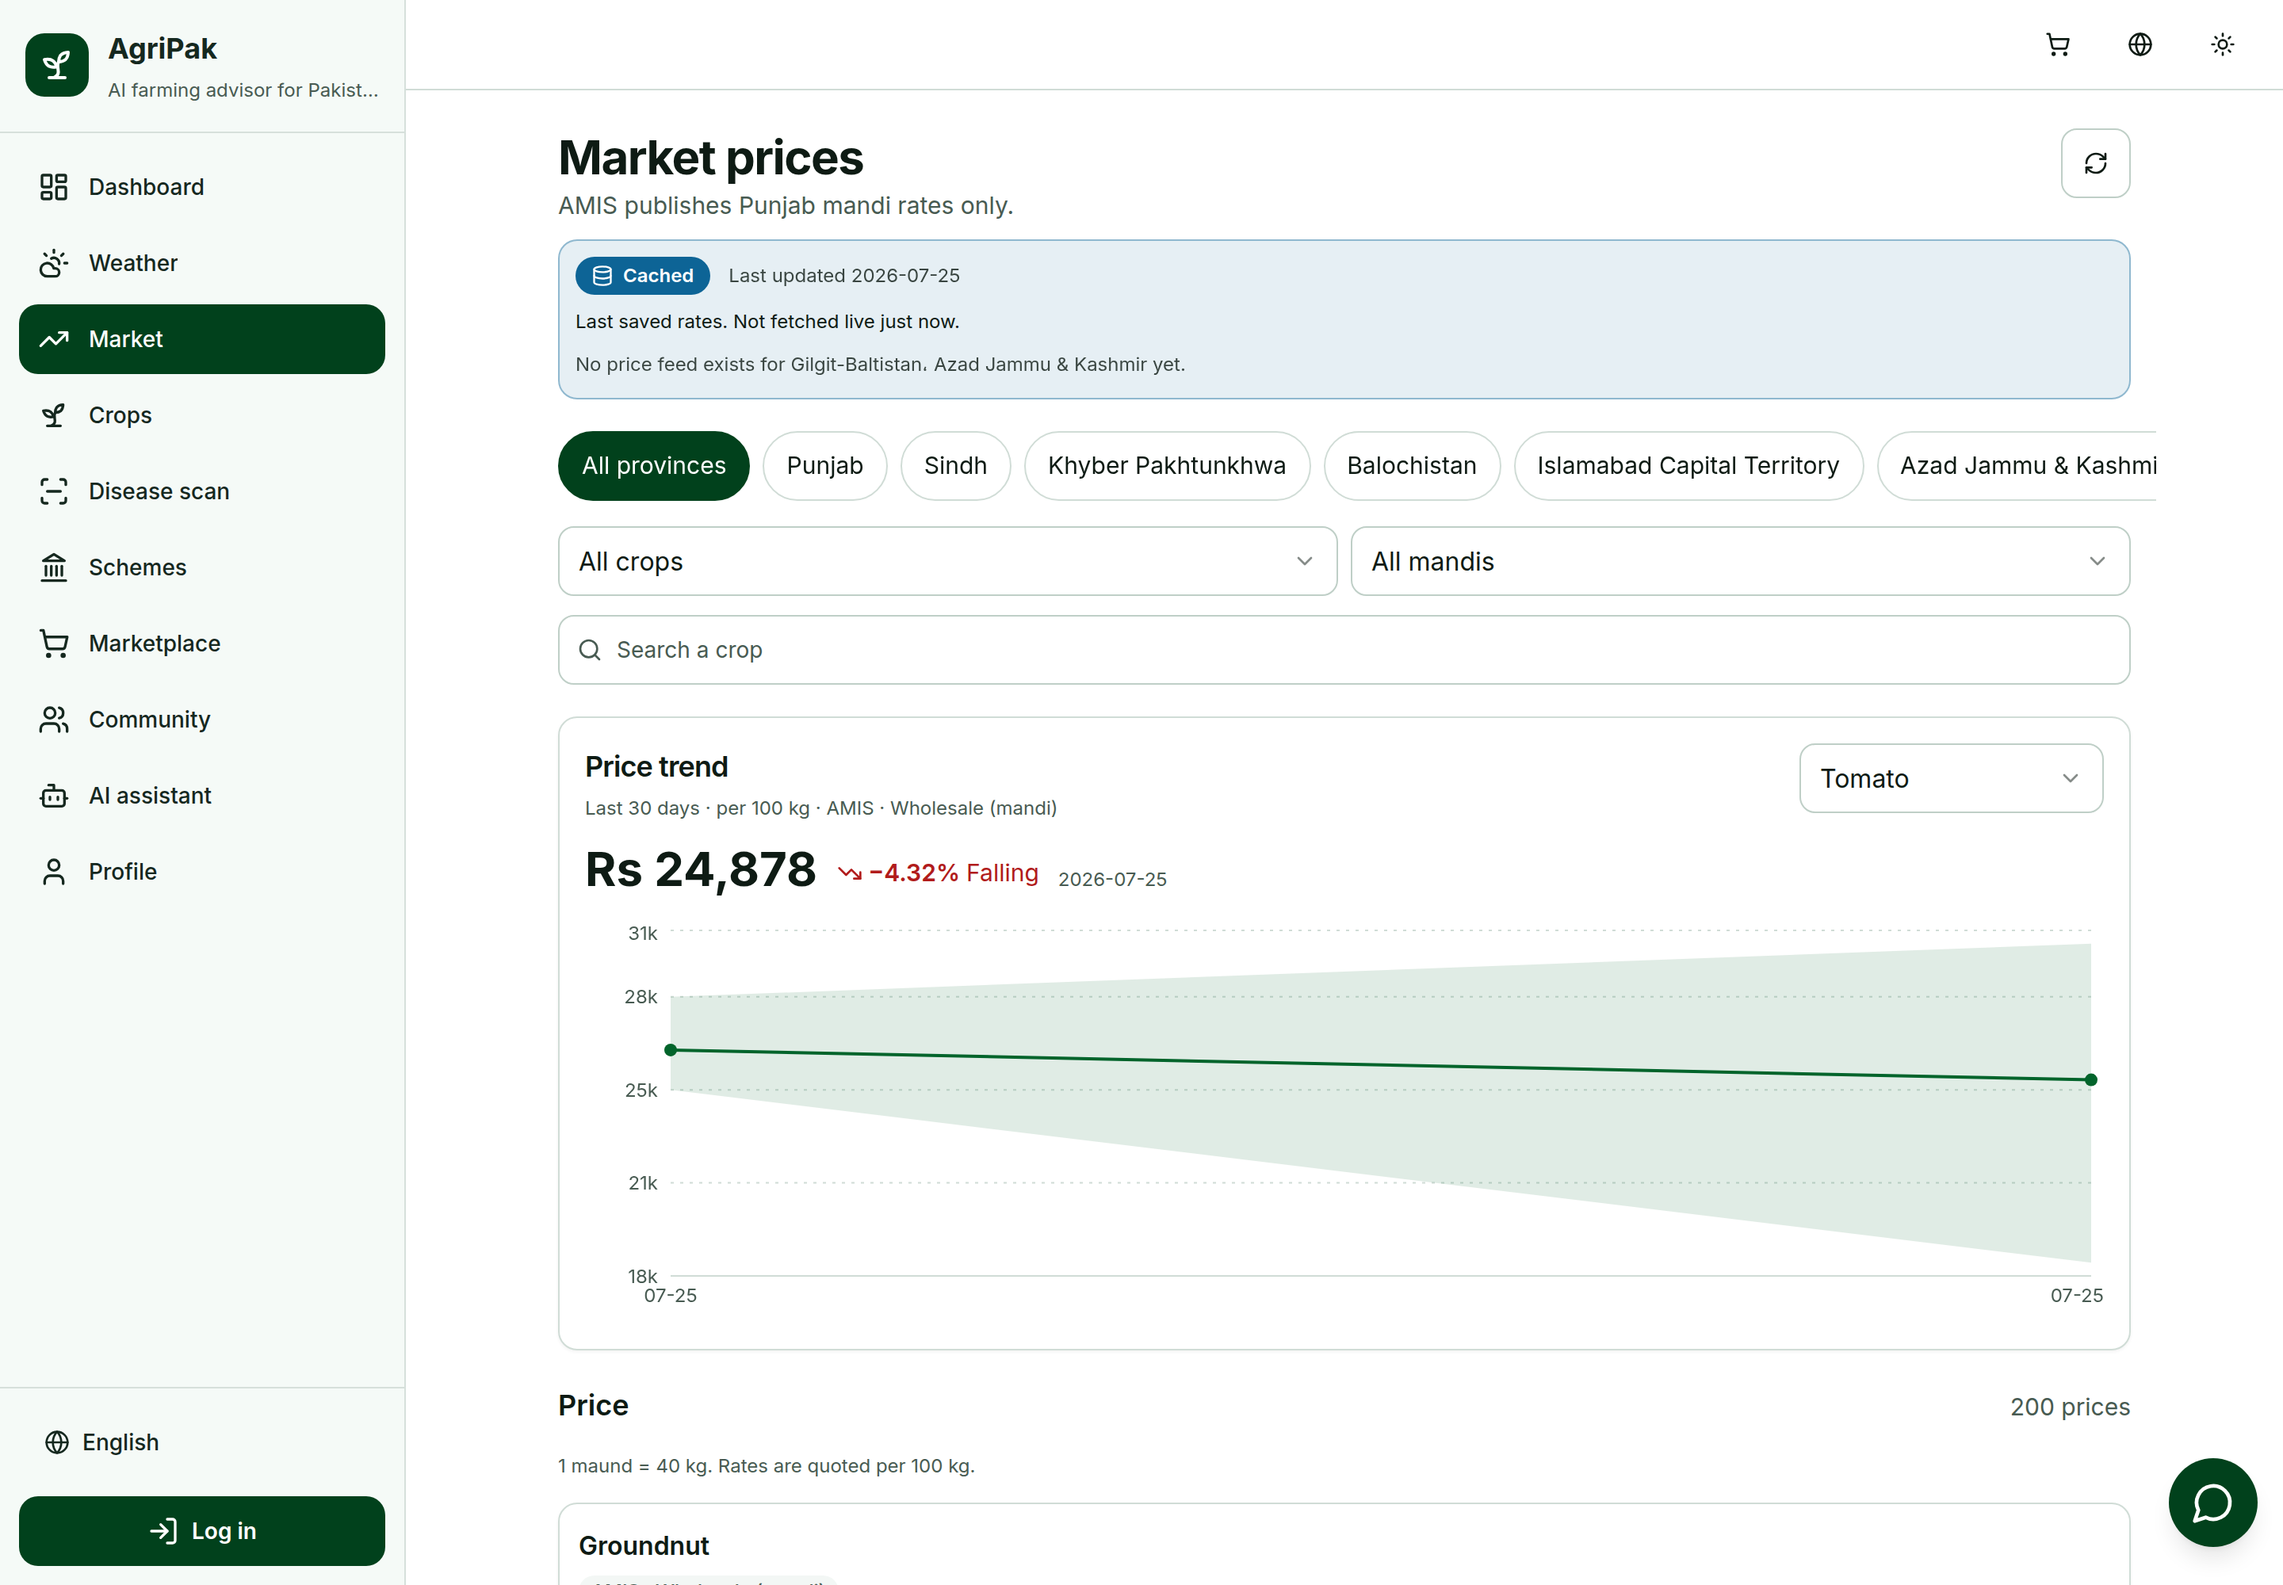
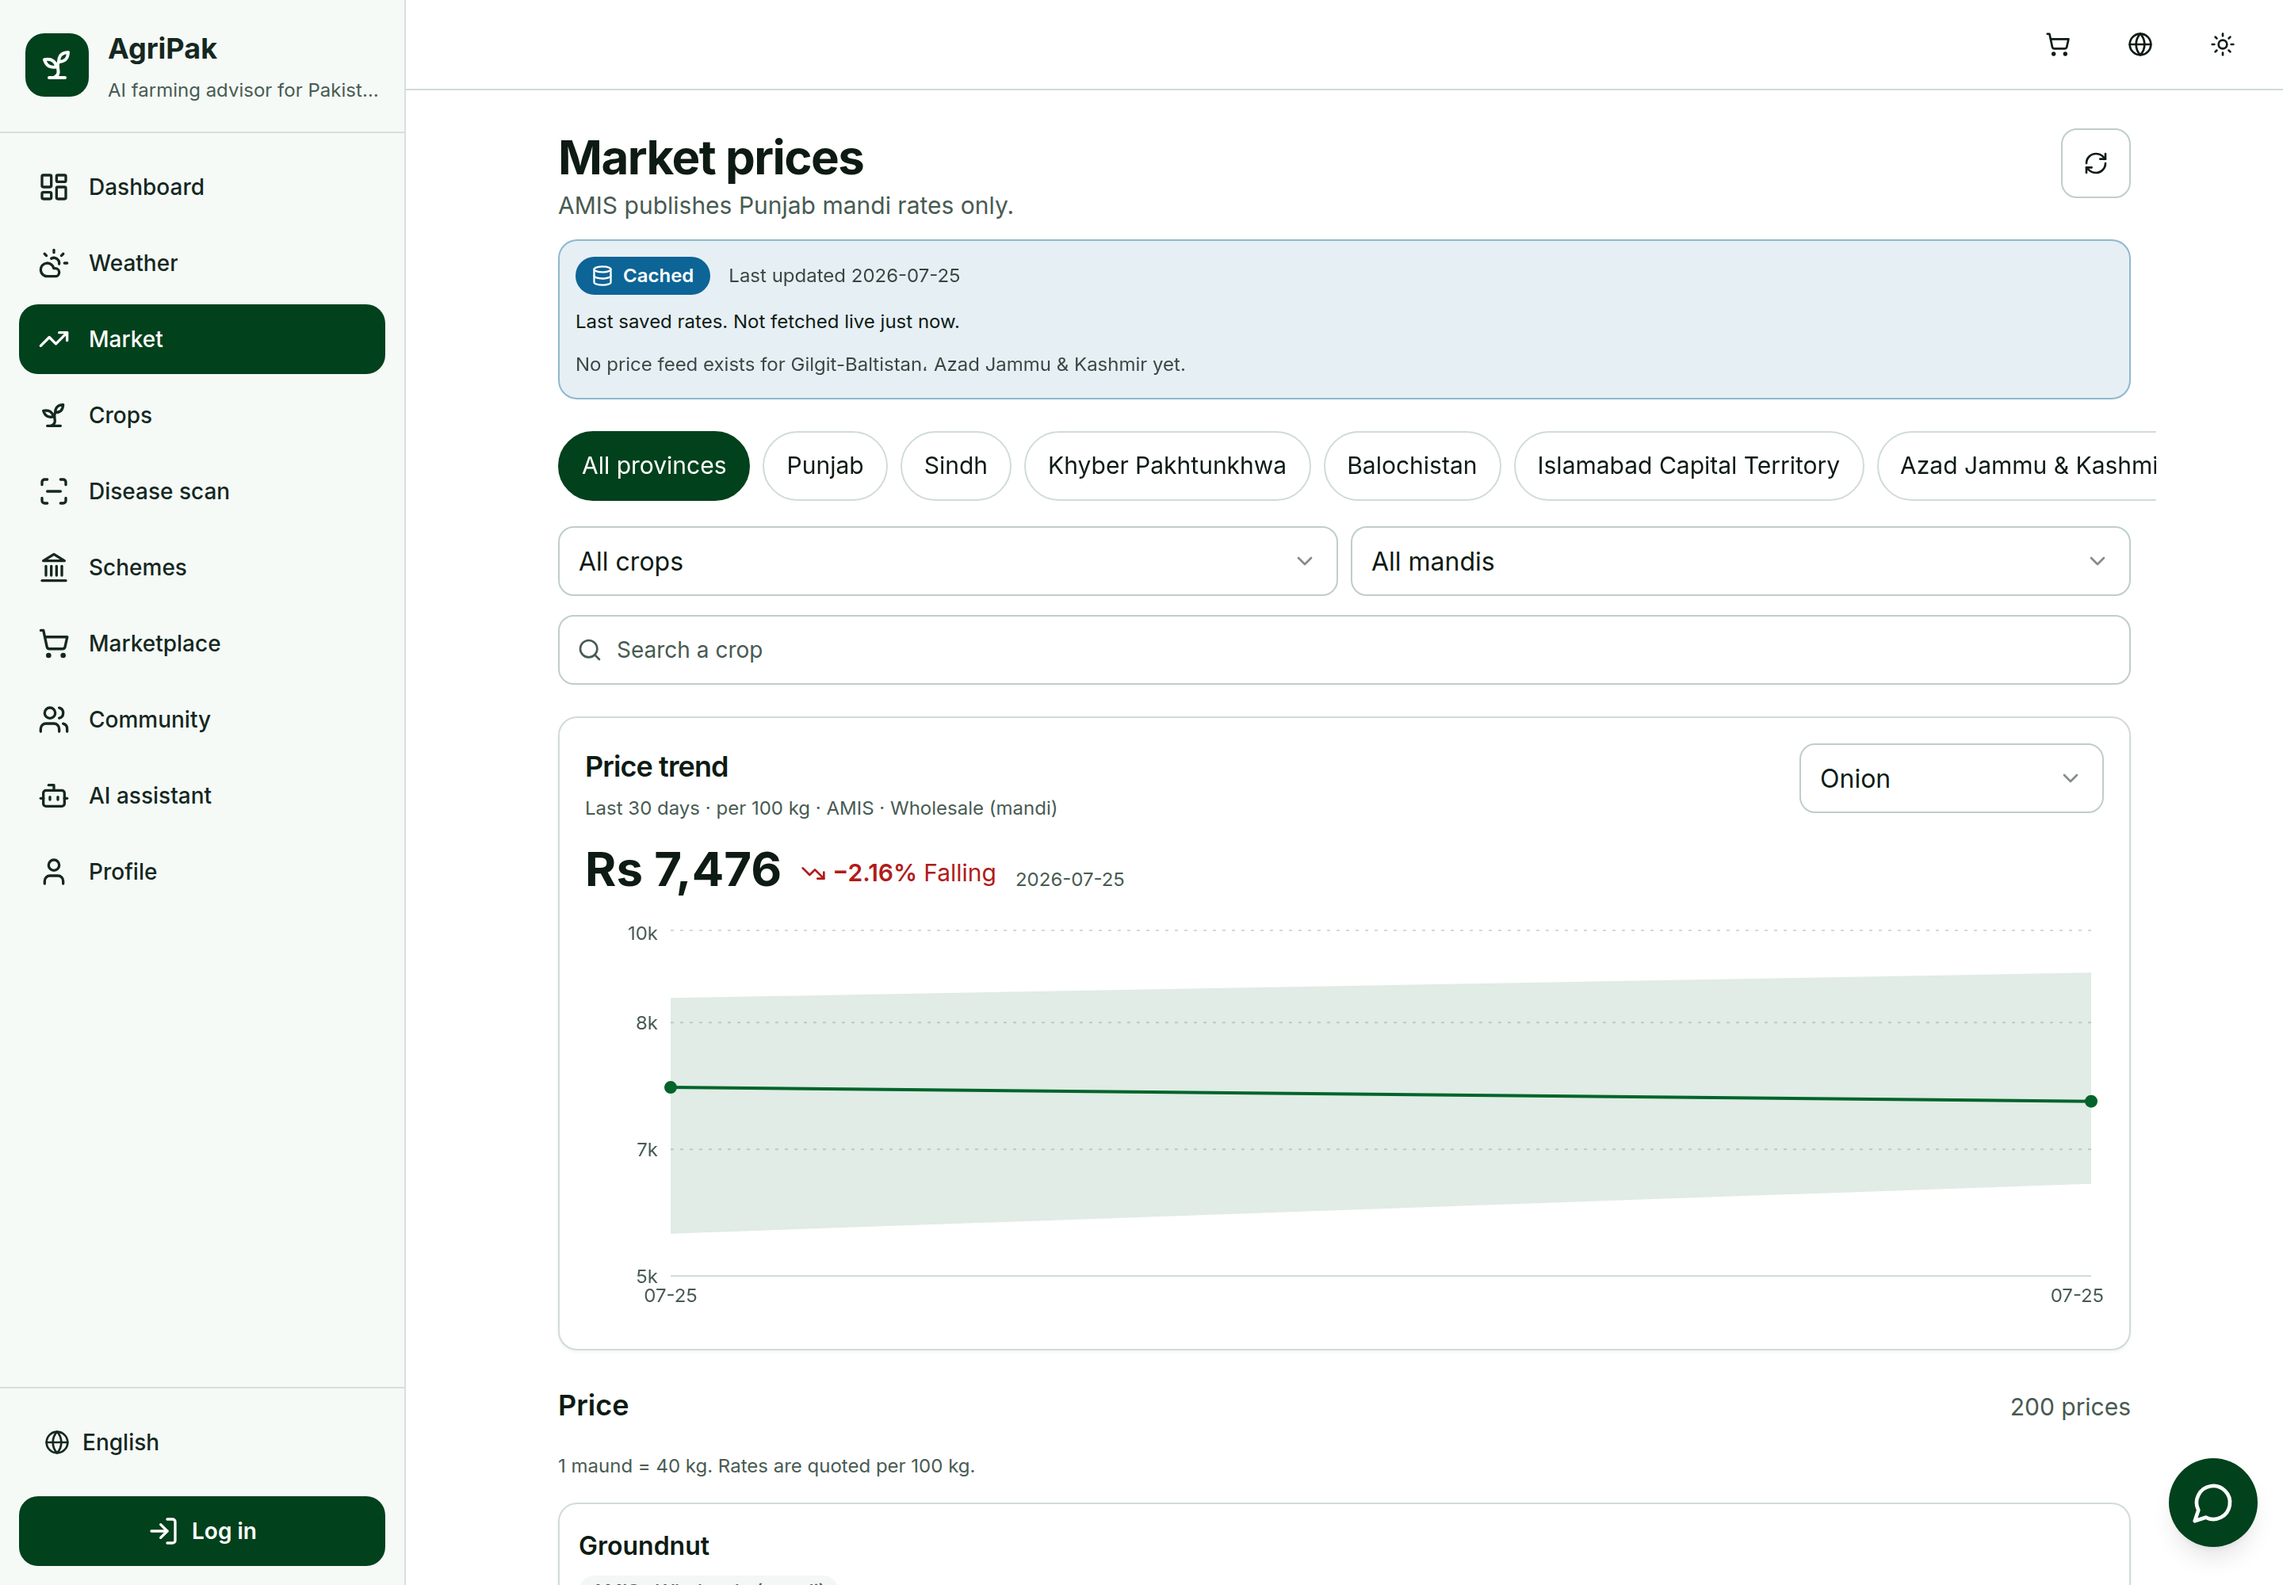
Market: coverage note now reflects both providers
Read 'AMIS publishes Punjab mandi rates only', which stopped being true once the
PBS retail feed was added and undersold the app's national coverage.

diff --git a/lib/data/translations/ur.ts b/lib/data/translations/ur.ts
@@ -321,7 +321,7 @@ export const ur: TranslationSchema = {
     modalPrice: "عام نرخ",
     range: "حد",
     pricesShown: "{count} نرخ",
-    coverageNote: "AMIS صرف پنجاب کی منڈیوں کے نرخ شائع کرتا ہے۔",
+    coverageNote: "پنجاب کے لیے تھوک منڈی نرخ، اور ملک بھر کے 17 شہروں کے پرچون نرخ۔",
     clearFilters: "فلٹر ہٹائیں",
     filters: "فلٹر",
     searchCrop: "جنس تلاش کریں",

diff --git a/lib/data/translations/ps.ts b/lib/data/translations/ps.ts
@@ -321,7 +321,7 @@ export const ps: TranslationSchema = {
     modalPrice: "عام بیه",
     range: "حد",
     pricesShown: "{count} بیې",
-    coverageNote: "AMIS يوازې د پنجاب د منډیو بیې خپروي.",
+    coverageNote: "د پنجاب لپاره د منډۍ ټوک بیې، او په ټول هېواد کې د ۱۷ ښارونو پرچون بیې.",
     clearFilters: "فلټرونه پاک کړئ",
     filters: "فلټر",
     searchCrop: "توکی ولټوئ",

diff --git a/lib/data/translations/pa.ts b/lib/data/translations/pa.ts
@@ -324,7 +324,7 @@ export const pa: TranslationSchema = {
     modalPrice: "عام بھاء",
     range: "حد",
     pricesShown: "{count} بھاء",
-    coverageNote: "AMIS صرف پنجاب دیاں منڈیاں دے بھاء چھاپدا اے۔",
+    coverageNote: "پنجاب لئی تھوک منڈی بھاء، تے ملک بھر دے 17 شہراں دے پرچون بھاء۔",
     clearFilters: "فلٹر ہٹاؤ",
     filters: "فلٹر",
     searchCrop: "جنس لبھو",

diff --git a/lib/data/translations/sd.ts b/lib/data/translations/sd.ts
@@ -321,7 +321,7 @@ export const sd: TranslationSchema = {
     modalPrice: "عام اگهه",
     range: "حد",
     pricesShown: "{count} اگهه",
-    coverageNote: "AMIS رڳو پنجاب جي منڊين جا اگهه شايع ڪري ٿو.",
+    coverageNote: "پنجاب لاءِ هول سيل منڊي اگهه، ۽ ملڪ جي 17 شهرن جا پرچون اگهه.",
     clearFilters: "فلٽر هٽايو",
     filters: "فلٽر",
     searchCrop: "جنس ڳوليو",

diff --git a/lib/data/translations/en.ts b/lib/data/translations/en.ts
@@ -335,7 +335,7 @@ export const en = {
     modalPrice: "Common rate",
     range: "Range",
     pricesShown: "{count} prices",
-    coverageNote: "AMIS publishes Punjab mandi rates only.",
+    coverageNote: "Wholesale mandi rates for Punjab, plus retail prices for 17 cities nationwide.",
     clearFilters: "Clear filters",
     filters: "Filters",
     searchCrop: "Search a crop",
